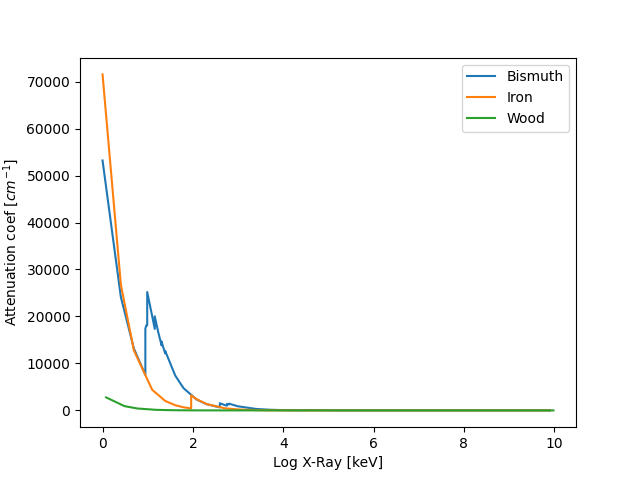
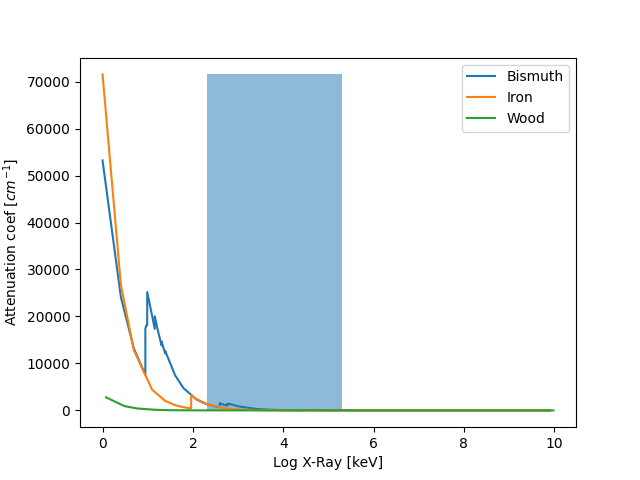
Add commerical X-Ray scanner range

Changed region(s): [[0.3125, 0.1562, 0.5312, 0.875]]

diff --git a/code/atttenuation_coef.py b/code/atttenuation_coef.py
@@ -168,8 +168,11 @@ plt.figure(3)
 plt.plot(np.log(x_val_bismuth), y_val_bismuth)
 plt.plot(np.log(x_val_iron), y_val_iron)
 plt.plot(np.log(x_val_wood), y_val_wood)
+plt.fill_betweenx([min(y_val_iron),max(y_val_iron)],np.log(10),np.log(200),alpha=0.5)
+
 plt.xlabel("Log X-Ray [keV]")
 plt.ylabel(r"Attenuation coef [$cm^{-1}$]")
 plt.legend(["Bismuth", "Iron", "Wood"])
+
 plt.savefig(".././images/all_NIST_attenuation_coef_data.png")
 plt.close()
